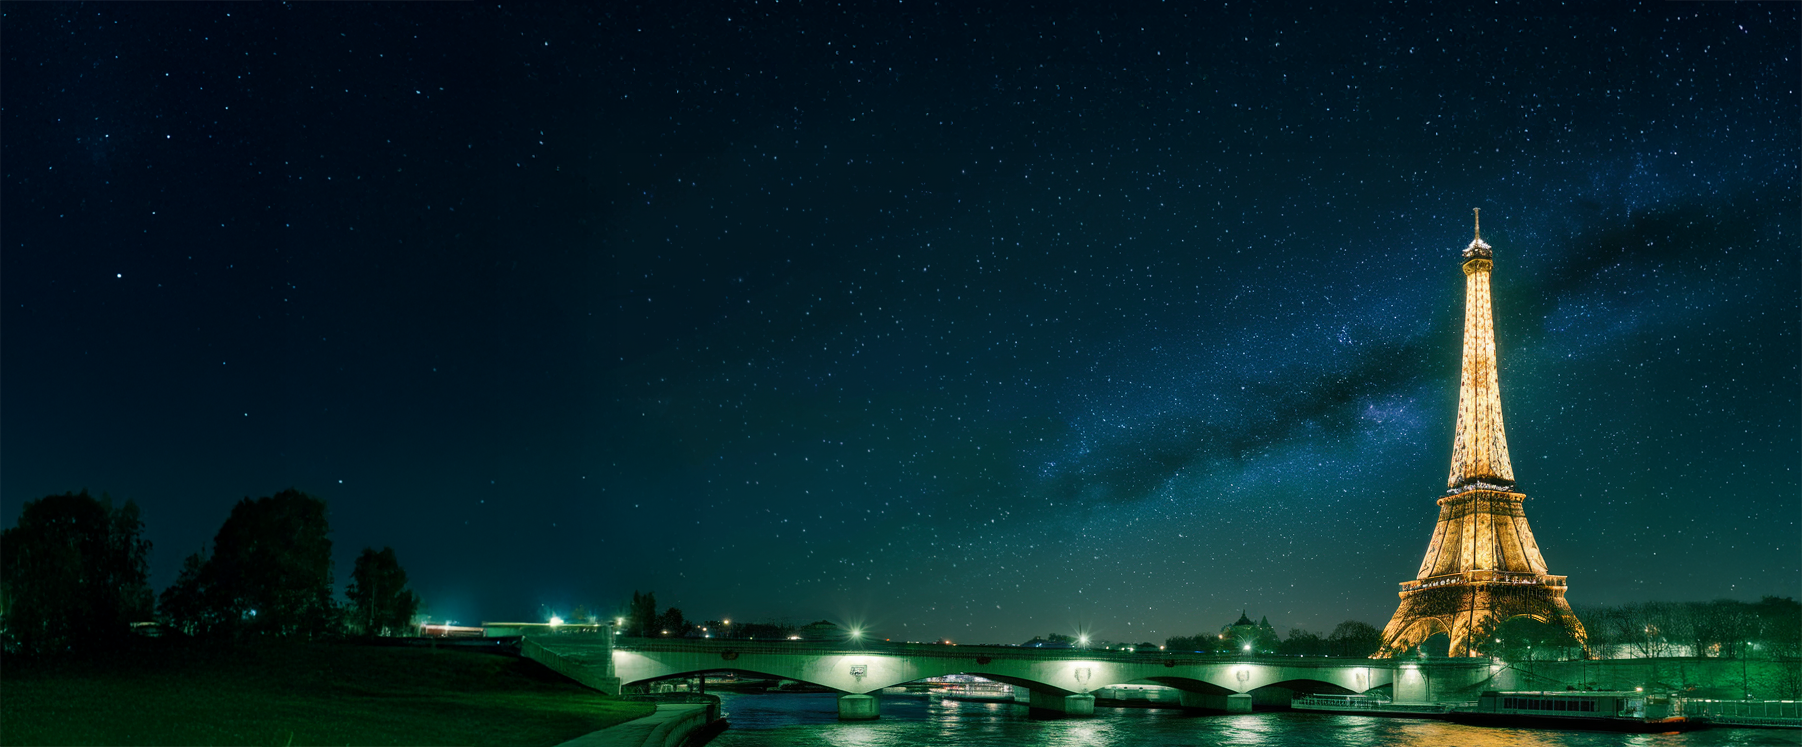
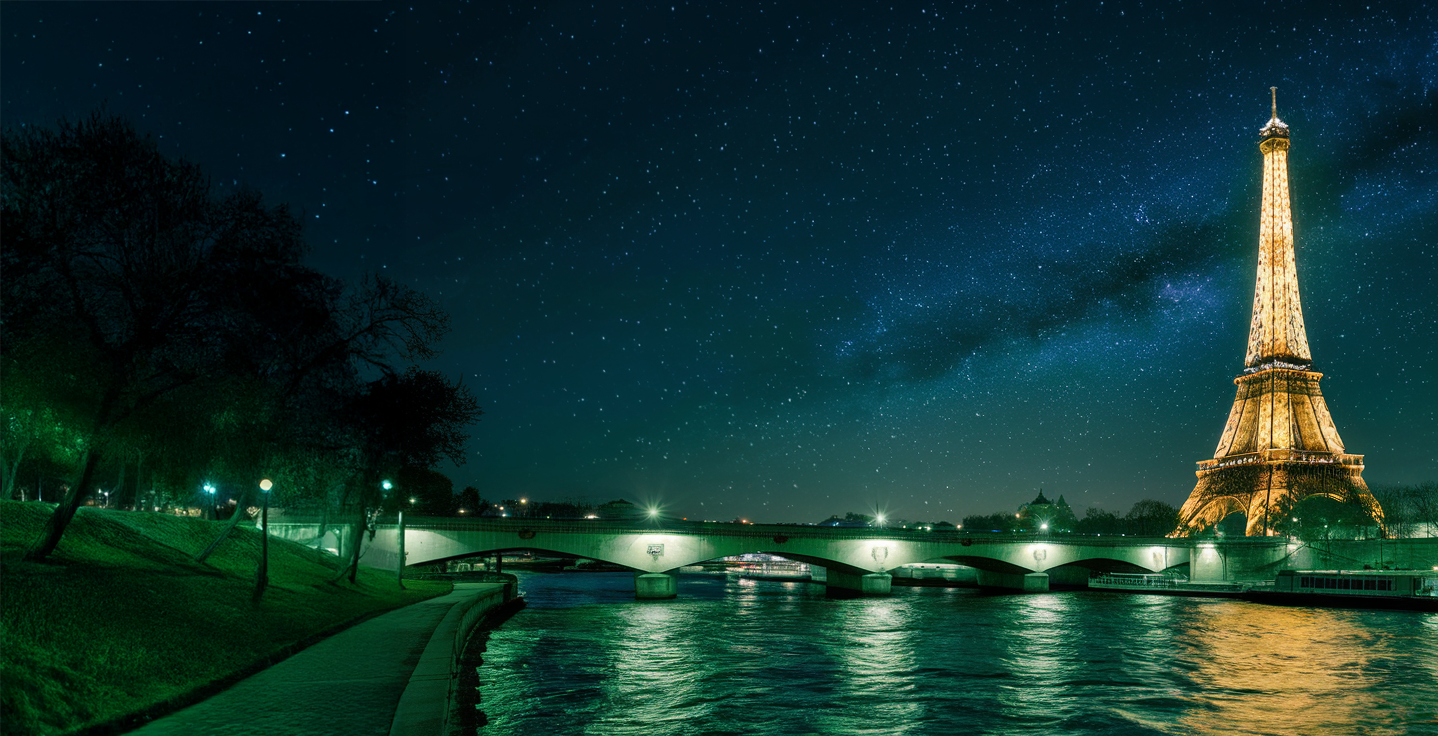
added sponsor + homeHero2

diff --git a/app/components/HomeHero2.vue b/app/components/HomeHero2.vue
@@ -1,15 +1,20 @@
 <template>
   <section class="relative h-screen overflow-hidden md:h-section">
-    <div class="absolute top-0 flex h-full w-full flex-col gap-52">
+    <div class="absolute top-0 flex h-full w-full flex-col gap-72">
       <h1
-        class="mt-8 text-nowrap font-ultra text-[10.5vw] leading-none text-white"
+        class="ml-10 mt-8 text-nowrap font-ultra text-[10vw] leading-none text-white"
       >
         VUE.JS PARIS
       </h1>
-      <div class="ml-44 flex w-[500px] flex-col items-start gap-5">
-        <h2 class="text-3xl font-semibold text-white sm:text-5xl">
-          Rejoignez la communauté !
+      <div class="ml-10 flex w-[600px] flex-col items-center gap-5">
+        <h2 class="text-center text-3xl font-semibold text-white sm:text-5xl">
+          Découvrir, partager et connecter.
         </h2>
+        <p class="text-center">
+          Rejoignez-nous pour notre prochain meetup et découvrez des talks
+          passionnants et des moments de partage avec la communauté Vue.js
+          Paris.
+        </p>
         <AppButton
           link="https://www.meetup.com/fr-FR/Vuejs-Paris/"
           target="_blank"
@@ -19,6 +24,6 @@
         </AppButton>
       </div>
     </div>
-    <img src="/images/Paris7.png" alt="" class="w-screen object-cover" />
+    <img src="/images/Paris4.png" alt="" class="w-screen object-cover" />
   </section>
 </template>

diff --git a/app/components/AppHeader.vue b/app/components/AppHeader.vue
@@ -42,6 +42,18 @@ const colorMode = useColorMode();
           </li>
           <li>
             <NuxtLink
+              to="/sponsor"
+              class="rounded-2xl border-2 border-transparent p-3 transition-all hover:border-2 hover:border-primary"
+              :class="{
+                'rounded-2xl border-2 !border-primary p-3 font-bold':
+                  route.path === '/sponsor',
+              }"
+            >
+              Devenir sponsor
+            </NuxtLink>
+          </li>
+          <li>
+            <NuxtLink
               to="/about"
               class="rounded-2xl border-2 border-transparent p-3 transition-all hover:border-2 hover:border-primary"
               :class="{

diff --git a/app/pages/sponsor.vue b/app/pages/sponsor.vue
@@ -1,0 +1,3 @@
+<template>
+  <h1>Devenir sponsor</h1>
+</template>
